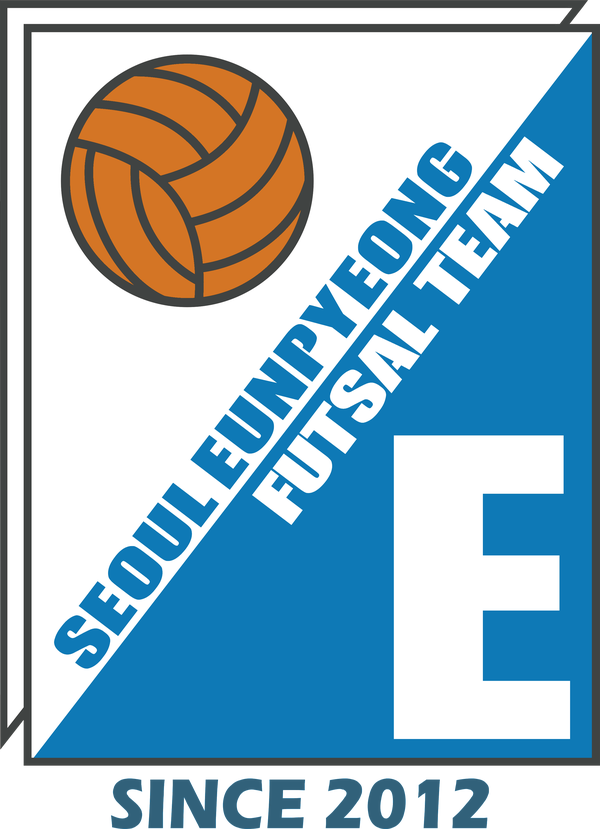
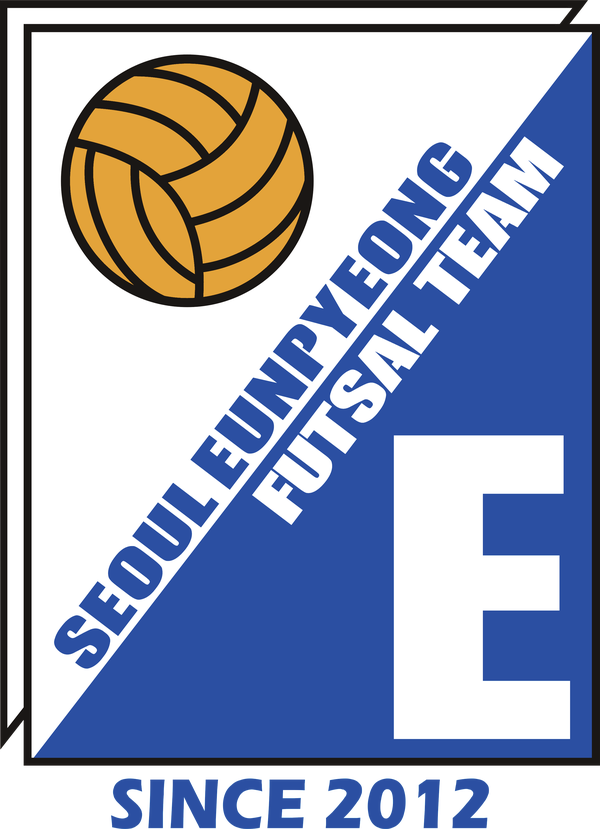
fix(site): 엠블럼 색을 실제 엠블럼(로열 블루·금색 공)으로
- 판·SINCE 2012 #2B4FA2, 공 #E3A33A, 선 검정 — 소유자가 보여 준 엠블럼 기준
- emblem.png·emblem-mark.png·탭 아이콘 다시 만듦

Claude-Session: https://claude.ai/code/session_01KQVuA2kxxdcTX7GeV6BuEM

diff --git a/sites/eunpyeong-denforce/docs/KNOWN_ISSUES.md b/sites/eunpyeong-denforce/docs/KNOWN_ISSUES.md
@@ -248,7 +248,7 @@
 - **위치**: `src/data/people.ts`, `src/data/matches.ts`, `src/data/sponsors.ts`
 
 ## I-001 | 2026-10-15 | 엠블럼이 저해상도 JPG, 공식 컬러 가이드 없음
-- **상태**: 엠블럼은 해결(2026-10-16) — 소유자가 원본 벡터(서울은평엠블럼.ai)를 줘서 `public/brand/emblem.png`(600×829, SINCE 2012 포함)·`emblem-mark.png`(600×766)·브라우저 탭 아이콘(app/favicon.ico·icon.png·apple-icon.png)을 다시 만듦. 원본 .ai 색(파랑 #008CD6·주황 #ED8302·선 #16100E)은 지금까지 쓰던 로고와 달라 소유자 지시("색은 맞춰줘")로 기존 로고 색에 맞춰 칠함 — 파랑 #0E79B6·공 주황 #D47525·선 #404342·SINCE 2012 #31617A. 사이트 색 토큰(`--c-blue` #1a349a 등)은 그대로. 공식 컬러 가이드는 여전히 없음
+- **상태**: 엠블럼은 해결(2026-10-16) — 소유자가 원본 벡터(서울은평엠블럼.ai)를 줘서 `public/brand/emblem.png`(600×829, SINCE 2012 포함)·`emblem-mark.png`(600×766)·브라우저 탭 아이콘(app/favicon.ico·icon.png·apple-icon.png)을 다시 만듦. 원본 .ai 색(파랑 #008CD6·주황 #ED8302·선 #16100E)은 실제 엠블럼과 달라, 소유자가 보여 준 엠블럼 이미지 색으로 칠함 — 로열 블루 #2B4FA2(판·SINCE 2012)·공 금색 주황 #E3A33A·선 검정 #1A1715. 스크린숏을 눈으로 맞춘 값이라 원본 이미지 파일을 받으면 정확히 다시 맞춘다. 사이트 색 토큰(`--c-blue` #1a349a 등)은 그대로. 공식 컬러 가이드는 여전히 없음
 - **심각도**: 낮음
 - **증상/내용**: 엠블럼은 제안서에서 추출한 171×195 JPG(흰 배경). 컬러는 제안서·유니폼에서 추출 (D-004).
 - **해결 방향**: 구단에서 SVG/PNG 원본 로고와 컬러값 받으면 `public/brand/`, `src/styles/tokens.css` 교체.

diff --git a/sites/eunpyeong-denforce/docs/DOMAIN_KNOWLEDGE.md b/sites/eunpyeong-denforce/docs/DOMAIN_KNOWLEDGE.md
@@ -69,7 +69,7 @@
 
 구단 대표: 최경진 (푸터 표기, D-023). 서울은평FS 시절 선수(2013-14 MOM 기록)·대표 겸 플레잉 코치(2018 인터뷰), 유튜브 "최경진 풋살사관학교"(풋살사관학교 = 서울은평 2군 체제로 운영, 2022 모집글).
 
-영문 팀명: SEOUL EUNPYEONG DENFORCE FUTSAL TEAM (소유자 확인 2026-10-16, `SITE.nameEn` — 헤더 로고 아래). 엠블럼 그림 속 문구는 'SEOUL EUNPYEONG FUTSAL TEAM' 그대로. 엠블럼 원본: 소유자 제공 벡터 '서울은평엠블럼.ai'(2026-10-16, 파일 색은 파랑 #008CD6·주황 #ED8302·선 #16100E). 사이트에서 쓰는 엠블럼 색은 기존 로고에 맞춤(소유자 지시) — 파랑 #0E79B6·공 주황 #D47525·선 #404342·'SINCE 2012' #31617A.
+영문 팀명: SEOUL EUNPYEONG DENFORCE FUTSAL TEAM (소유자 확인 2026-10-16, `SITE.nameEn` — 헤더 로고 아래). 엠블럼 그림 속 문구는 'SEOUL EUNPYEONG FUTSAL TEAM' 그대로. 엠블럼 원본: 소유자 제공 벡터 '서울은평엠블럼.ai'(2026-10-16, 파일 색은 파랑 #008CD6·주황 #ED8302·선 #16100E). 사이트 엠블럼 색은 소유자가 보여 준 실제 엠블럼에 맞춤 — 로열 블루 #2B4FA2(판·'SINCE 2012')·공 금색 주황 #E3A33A·선 검정 (스크린숏 눈대중, 2026-10-16). 제안서(pptx)의 옛 엠블럼 JPG 는 하늘색 계열로 실제와 다름.
 
 같은 구단을 가리키는 이름 (소유자 확인, 자료 수집·검색 시 모두 사용): 서울은평FS, 서울은평 풋볼아카데미, 서울은평덴포스, 서울은평ZD스포츠, 서울은평나인티플러스 (띄어쓰기·FC 유무 변형 포함). 화면 표기는 항상 `SITE.name`("서울은평 덴포스").
 
